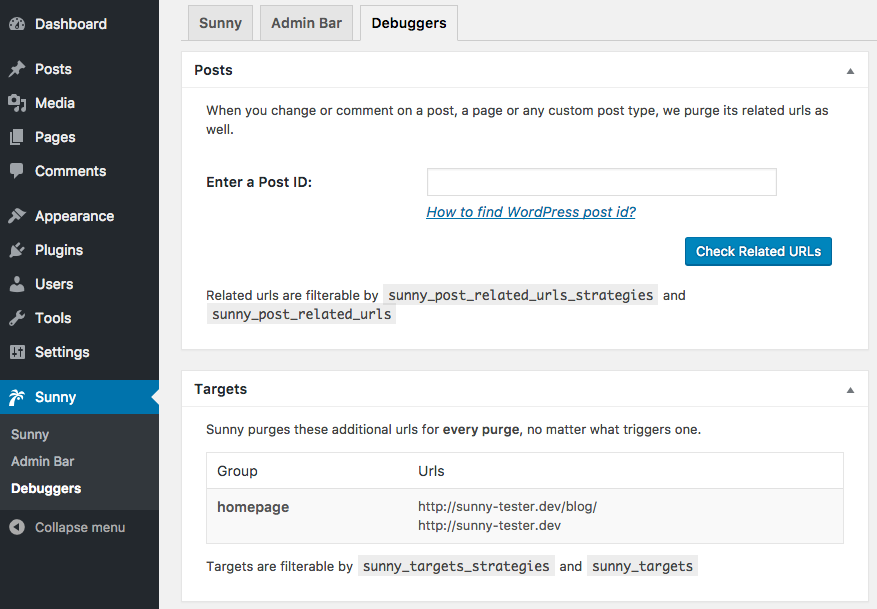
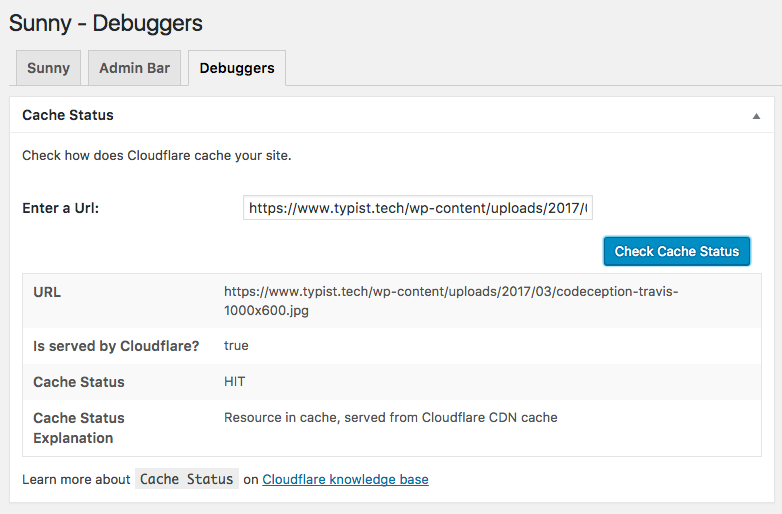
Version bump 2.2.0

diff --git a/sunny.php b/sunny.php
@@ -18,7 +18,7 @@
  * Plugin Name:     Sunny
  * Plugin URI:      https://www.typist.tech/
  * Description:     Automatically purge CloudFlare cache, including cache everything rules.
- * Version:         2.1.0
+ * Version:         2.2.0
  * Author:          Typist Tech
  * Author URI:      https://www.typist.tech/
  * License:         GPL-2.0+

diff --git a/src/Sunny.php b/src/Sunny.php
@@ -49,7 +49,7 @@ use TypistTech\Sunny\Vendor\TypistTech\WPContainedHook\Loader;
  */
 final class Sunny implements LoadableInterface
 {
-    const VERSION = '2.1.0';
+    const VERSION = '2.2.0';
 
     /**
      * The dependency injection container.

diff --git a/CHANGELOG.md b/CHANGELOG.md
@@ -1,5 +1,26 @@
 # Change Log
 
+## [2.2.0](https://github.com/TypistTech/sunny/tree/2.2.0) (2017-05-12)
+[Full Changelog](https://github.com/TypistTech/sunny/compare/2.1.0...2.2.0)
+
+**Closed issues:**
+
+- Debugger: Check whether a url is cached by Cloudflare [\#74](https://github.com/TypistTech/sunny/issues/74)
+- Add back restapi tests [\#68](https://github.com/TypistTech/sunny/issues/68)
+- Posts/RelatedUrls: Add adjacent posts [\#66](https://github.com/TypistTech/sunny/issues/66)
+- Add hire me notice [\#31](https://github.com/TypistTech/sunny/issues/31)
+- Add donate me notice [\#30](https://github.com/TypistTech/sunny/issues/30)
+
+**Merged pull requests:**
+
+- Purge adjacent posts [\#81](https://github.com/TypistTech/sunny/pull/81) ([TangRufus](https://github.com/TangRufus))
+- Add delayed notices [\#80](https://github.com/TypistTech/sunny/pull/80) ([TangRufus](https://github.com/TangRufus))
+- Add back REST API tests [\#79](https://github.com/TypistTech/sunny/pull/79) ([TangRufus](https://github.com/TangRufus))
+- Add newsletter metabox to all option pages; Upgrade WPBS to v0.13.0 [\#78](https://github.com/TypistTech/sunny/pull/78) ([TangRufus](https://github.com/TangRufus))
+- Avoid duplicated class names; Remove Admin namespace [\#77](https://github.com/TypistTech/sunny/pull/77) ([TangRufus](https://github.com/TangRufus))
+- Refactor debuggers [\#76](https://github.com/TypistTech/sunny/pull/76) ([TangRufus](https://github.com/TangRufus))
+- Add Debugger: Cache Status [\#75](https://github.com/TypistTech/sunny/pull/75) ([TangRufus](https://github.com/TangRufus))
+
 ## [2.1.0](https://github.com/TypistTech/sunny/tree/2.1.0) (2017-05-08)
 [Full Changelog](https://github.com/TypistTech/sunny/compare/2.0.1...2.1.0)
 
@@ -11,6 +32,8 @@
 
 **Merged pull requests:**
 
+- Version bump 2.1.0 [\#73](https://github.com/TypistTech/sunny/pull/73) ([TangRufus](https://github.com/TangRufus))
+- Add newsletter form to debuggers page [\#72](https://github.com/TypistTech/sunny/pull/72) ([TangRufus](https://github.com/TangRufus))
 - Refactor Targets [\#71](https://github.com/TypistTech/sunny/pull/71) ([TangRufus](https://github.com/TangRufus))
 - Add debugger: Posts [\#70](https://github.com/TypistTech/sunny/pull/70) ([TangRufus](https://github.com/TangRufus))
 - Style deubggers with PostBox [\#67](https://github.com/TypistTech/sunny/pull/67) ([TangRufus](https://github.com/TangRufus))
